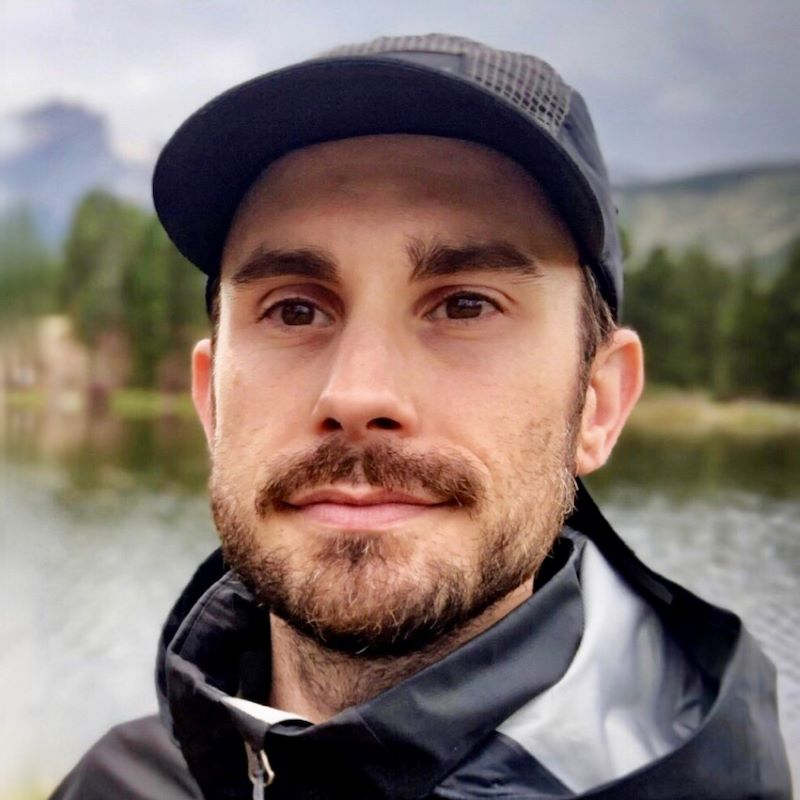
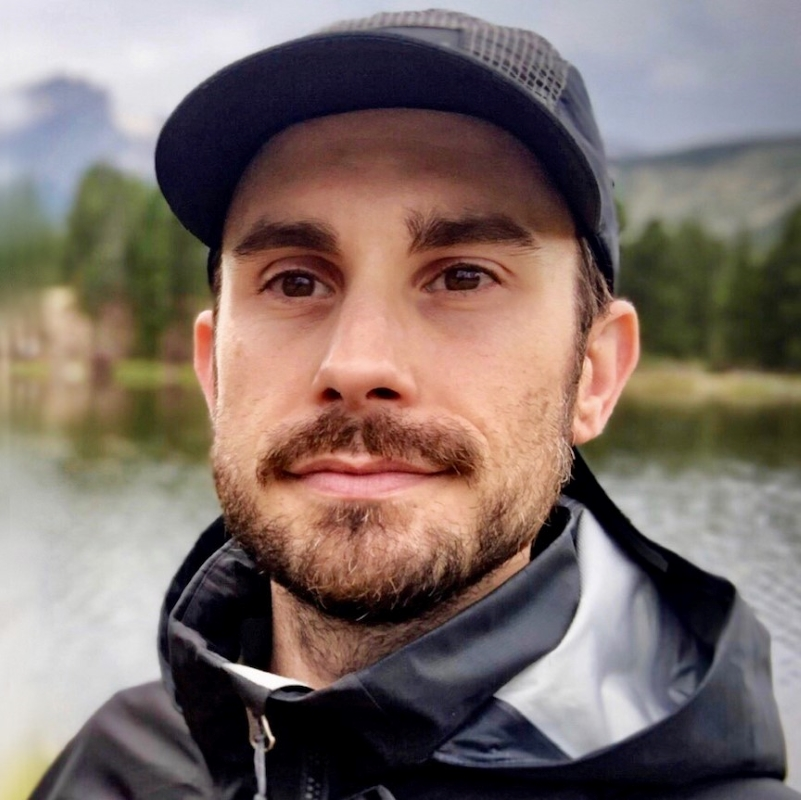
add styling to About Us

diff --git a/pages/about.html b/pages/about.html
@@ -24,45 +24,49 @@
         </ul>
       </nav>
     </header>
+      <main>
+        <hr>
         <section id="story">
             <h2>Our Story</h2>
-            <p>It all began one day when Kason went to his pantry to get some gluten-free pasta (a staple in his house) for his dinner. He realized that he had run out and he couldn't believe it! He nearly always had gluten-free pasta in his pantry, but somehow he forgot to buy some the last time he went to the store.</p>
-            <p>He was talking to his friends Ryan, Stefanie, and Rahzae about his frustration, and they all chimed in with their own similar stories, and how they wished there was a way to track their grocery items so they could replace them before they ran out, or ensure they were used before they passed their expiration date.</p>
+            <p>It all began one day when Kason went to his pantry to get some gluten-free pasta (a staple in his house) for his dinner. He realized that he had run out and he couldn't believe it! He ALWAYS had gluten-free pasta in his pantry, but somehow, he forgot to buy some the last time he went to the store.</p>
+            
+            <p>He was telling his friends Ryan, Stefanie, and Rahzae about his frustration, and they all chimed in with their own similar stories, and how they wished there was a way to track their grocery items so they could replace them before they ran out, or ensure they were used before they passed their expiration date.</p>
+            
             <p>And FoodWise was born....</p>
         </section>
         <section id="team">
             <h2>Our Team</h2>
         </section>
-        <section id="teamAB">
-            <article id="kason">
-                <img src="../images/KasonBraley.jpg" alt="Kason Braley" width="300px">
+        <section id="bios">
+            <article id="kason" class="bio">
+                <a href="https://www.linkedin.com/in/kason-braley/" target="_blank"><img src="../images/KasonBraley.jpg" alt="Kason Braley" class="bwtocolor"></a>
                 <h3>Kason Braley</h3>
                 <p>Kason is a Navy veteran with a passion for streamlined solutions to everyday problems. He enjoys ...?</p>
                 <a href="https://www.linkedin.com/in/kason-braley/">LinkedIn</a> | <a href="https://github.com/KasonBraley">GitHub</a>
             </article>
-            <article id="ryan">
-                <img src="../images/RyanEmmans.jpg" alt="Ryan Emmans" width="300px">
+            <article id="ryan" class="bio">
+              <a href="https://www.linkedin.com/in/ryanemmans/" target="_blank"><img src="../images/RyanEmmans.jpg" alt="Ryan Emmans" class="bwtocolor"></a>
                 <h3>Ryan Emmans</h3>
                 <p>Ryan is a bartender-turned-developer who enjoys designing websites. He enjoys ...?</p>
                 <a href="https://www.linkedin.com/in/ryanemmans/">LinkedIn</a> | <a href="https://github.com/ryanemmans">GitHub</a>
             </article>        
-        </section>
-        <section id="teamCD">
-            <article id="stefanie">
-                <img src="../images/StefanieRiehle.jpg" alt="Stefanie Riehle">
+            <article id="stefanie" class="bio">
+                <a href="https://www.linkedin.com/in/stefanie-riehle/" target="_blank"><img src="../images/StefanieRiehle.jpg" alt="Stefanie Riehle" class="bwtocolor"></a>
                 <h3>Stefanie Riehle</h3>
                 <p>Stefanie is Seattle transplant who sometimes still can't believe she lives in Seattle even after 10 years. She enjoys hanging out with her amazing daughter and tending to her many, many plants.</p>
                 <a href="https://www.linkedin.com/in/stefanie-riehle/">LinkedIn</a> | <a href="https://github.com/stefrie">GitHub</a>
             </article>
-            <article id="rahzae">
-                <img src="../images/RahzaeWilliams.jpg" alt="Rahzae Williams" width="300px">
+            <article id="rahzae" class="bio">
+                <a href="https://www.linkedin.com/in/rahzae-williams-29ab081b0/" target="_blank"><img src="../images/RahzaeWilliams.jpg" alt="Rahzae Williams" class="bwtocolor"></a>
                 <h3>Rahzae Williams</h3>
                 <p>Rahzae is a Navy veteran who loves to build websites. He enjoys...?</p>
                 <a href="https://www.linkedin.com/in/rahzae-williams-29ab081b0/">LinkedIn</a> | <a href="https://github.com/Rahzae">GitHub</a>
             </article>   
         </section>
+        <hr>
     </main>
     <footer>
+      <p>&#169;2021 Code Fellows, Inc. | Team Loki</p>
     </footer>
 </body>
 </html>

diff --git a/css/style.css b/css/style.css
@@ -4,15 +4,17 @@ body {
 }
 
 h1 {
-  font-family: 'Comfortaa', cursive;
+  font-family: 'Comfortaa', sans-serif;
   font-size: 2em;
   color: green;
 }
 
 h2 {
-  font-family: 'Comfortaa', cursive;
-  font-size: 1.4em;
-  margin-bottom: 40px;
+  font-family: 'Comfortaa', sans-serif;
+  font-size: 2em;
+  margin-bottom: 20px;
+  text-align: center;
+  margin-top: 30px;
 }
 
 a {
@@ -27,7 +29,8 @@ a:hover {
 
 header, footer {
   height: 100px;
-  width: 60%;
+  width: 75%;
+  max-width: 960px;
   display: flex;
   justify-content: space-evenly;
   align-items: center;
@@ -43,13 +46,14 @@ li {
   display: inline;
   text-transform: uppercase;
   margin-left: 50px;
+  font-family: 'Comfortaa', sans-serif;
 }
 
 main {
-  height: 100px;
-  width: 60%;
+  width: 75%;
   align-items: center;
   margin: 0px auto;
+  max-width: 960px;
 }
 
 section {
@@ -79,6 +83,7 @@ button {
   background-color: green;
   color: white;
   border-radius: 4px;
+  cursor: pointer;
 }
 
 button:hover {
@@ -86,6 +91,54 @@ button:hover {
 }
 
 p {
-  margin: 0px 50px;
-  text-align: justify;
+  margin: 20px;
+  line-height: 1.4;
 }
+
+h3 {
+  margin-top: 10px;
+  font-size: 20px;
+  color: green;
+  font-family: 'Ubuntu', sans-serif;
+}
+
+.bwtocolor {
+  width: 200px;
+  border-radius: 50%;
+	-webkit-filter: grayscale(100%);
+	filter: grayscale(100%);
+  transition: all 0.3s ease-in-out;
+}
+
+.bwtocolor:hover {
+	-webkit-filter: grayscale(0);
+	filter: grayscale(0);
+  transition: all 0.3s ease-in-out;
+  cursor: pointer;
+}
+
+#bios {
+  display: flex;
+  justify-content: space-evenly;
+}
+
+.bio {
+  width: 20%;  
+  display: inline-block;
+  margin: 10px;
+  height: 100%;
+  padding: 15px;
+  /* flex-wrap: nowrap; */
+}
+
+hr {
+  background-color: green;
+  height: 2px;
+  max-width: 75%;
+}
+
+footer {
+  height: 100px;
+  max-width: 75%; 
+}
+

diff --git a/index.html b/index.html
@@ -34,7 +34,7 @@
       </section>
 
       <section>
-          <a href="./pages/pantry.html"></a><button type="submit">Get Started</button></a>
+          <a href="./pages/pantry.html"><button type="submit">Get Started</button></a>
         <article>
           <p class="">
             Lorem ipsum dolor sit amet consectetur adipisicing elit. Quibusdam

diff --git a/pages/shopping-list.html b/pages/shopping-list.html
@@ -25,7 +25,8 @@
       </nav>
     </header>
     <main>
-          <h2 class="">Shopping List</h2>
+      <hr>
+      <h2 class="">Shopping List</h2>
       <section>
         <article>
           <p class="">

diff --git a/pages/pantry.html b/pages/pantry.html
@@ -27,6 +27,7 @@
       </nav>
     </header>
     <main>
+        <hr>
         <h2 class="">Pantry</h2>
         <form id="addFood">
             <fieldset>
